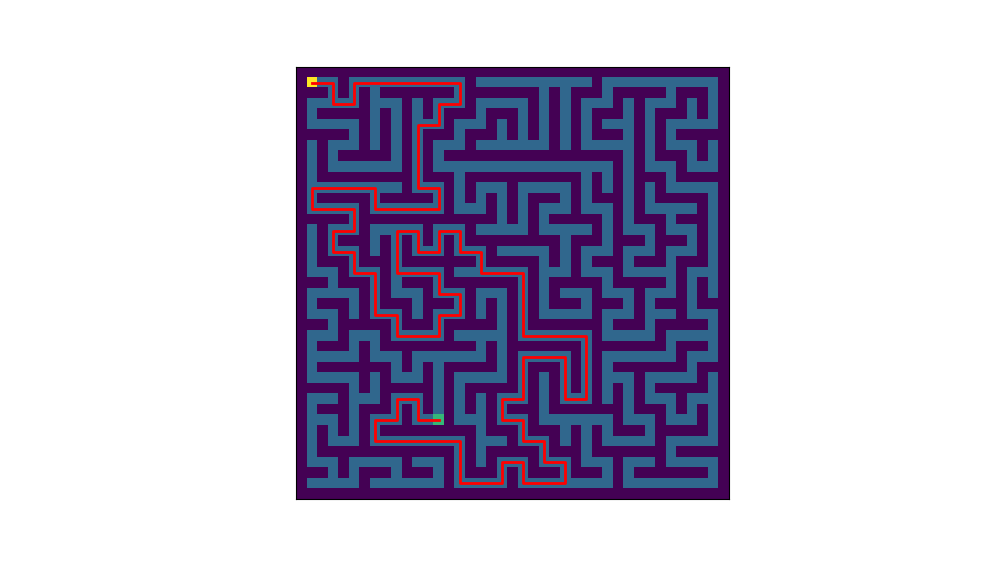
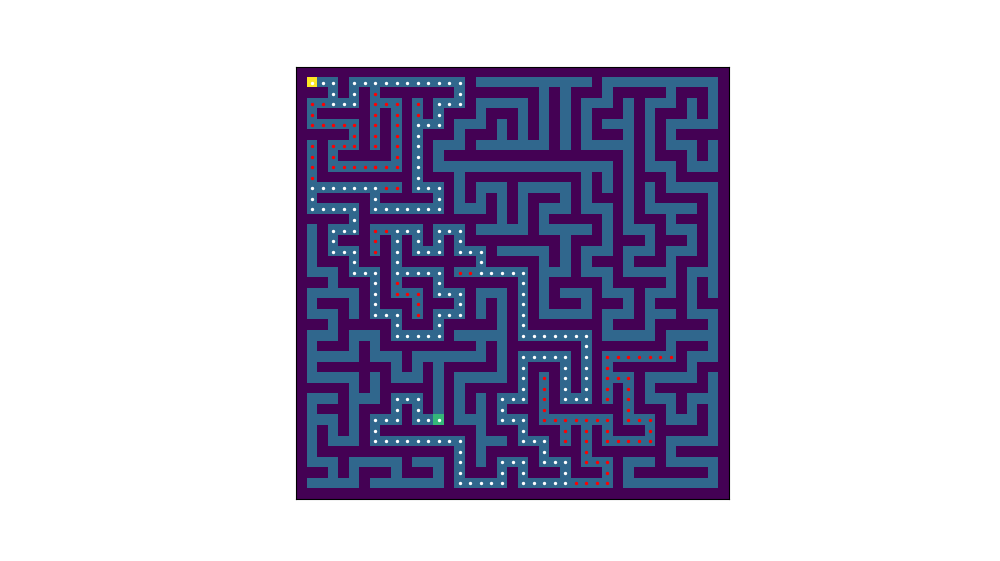
updated visualization

diff --git a/maze.py b/maze.py
@@ -50,7 +50,7 @@ def create_maze(dim):
     return maze, goal
 
 #... animate the path through the maze ...
-def draw_maze(maze, save_dir='', save_filename='', save_animation=False, path=None):
+def draw_maze(maze, save_dir='', save_filename='', save_animation=False, path=None, exploration=None):
     fig, ax = plt.subplots(figsize=(10,10))
     
     # Set the border color to white
@@ -61,40 +61,33 @@ def draw_maze(maze, save_dir='', save_filename='', save_animation=False, path=No
     ax.set_xticks([])
     ax.set_yticks([])
 
-    scatter = None 
+    scatter_path = None 
+    scatter_exp = None
     
     # Prepare for path animation
-    if path is not None:
-        # line, = ax.plot([], [], color='red', linewidth=2)
-        
-        # def init():
-        #     line.set_data([], [])
-        #     return line,
-        
-        # # update is called for each path point in the maze
-        # def update(frame):
-        #     x, y = path[frame]
-        #     line.set_data(*zip(*[(p[1], p[0]) for p in path[:frame+1]]))  # update the data
-        #     return line,
-        
-        # ani = animation.FuncAnimation(
-        #     fig, update, frames=range(len(path)), init_func=init, 
-        #     blit=True, repeat = False, interval=1
-        # )
+    if path is not None and exploration is not None:
 
         def init():
-            nonlocal scatter
-            scatter = ax.scatter([], [], marker='o', color='w', s=2)
-            return scatter,
+            nonlocal scatter_path
+            nonlocal scatter_exp
+            scatter_path = ax.scatter([], [], marker='o', color='w', s=2)
+            scatter_exp = ax.scatter([], [], marker='o', color='r', s=2)
+            return scatter_path, scatter_exp
         
         # update is called for each path point in the maze
         def update(frame):
-            nonlocal scatter
-            # y, x = path[frame]
-            x = [p[1] for p in path[:frame+1]]
-            y = [p[0] for p in path[:frame+1]]
-            scatter.set_offsets(np.column_stack([x, y]))  # Update scatter plot data
-            return scatter,
+            nonlocal scatter_path
+            nonlocal scatter_exp
+            exp_i = exploration.index(path[frame])
+            path_xy = [p for p in path[:frame+1]]
+            exp_xy = [e for e in exploration[:exp_i] if not e in path_xy]
+            path_x = [p[1] for p in path_xy]
+            path_y = [p[0] for p in path_xy]
+            exp_x = [e[1] for e in exp_xy]
+            exp_y = [e[0] for e in exp_xy]
+            scatter_exp.set_offsets(np.column_stack([exp_x, exp_y]))
+            scatter_path.set_offsets(np.column_stack([path_x, path_y]))
+            return scatter_path, scatter_exp
 
         ani = animation.FuncAnimation(
             fig, update, frames = range(len(path)), init_func = init, 

diff --git a/dfs.py b/dfs.py
@@ -49,39 +49,41 @@ def dfs(maze, goal):
     path.reverse()  # Reverse the path to get it from start to goal
     return {
         'path': path, # Return path.
+        'exploration': visited, # All the nodes that were visited.
         'num_nodes_traversed': len(set(visited)), # Return no. of nodes traversed.
         'num_dead_ends': num_dead_ends # Return no. of dead ends encountered.
     } 
 
-def handle_result(res, maze_shape):
+def handle_result(res, maze):
     ''' Displays path animation and prints 
         given run result for a maze of given shape. 
     '''
     draw_maze(
-        maze=maze, path=res['path'], save_dir=f'./solutions', 
-        save_filename=f'dfs_maze{maze_shape[0]}', save_animation=False
+        maze=maze, path=res['path'], exploration=res['exploration'],
+        save_dir=f'./solutions', save_filename=f'dfs_maze{maze.shape[0]}', 
+        save_animation=False
     )
-    print(f"\nMAZE ({maze_shape[0]} x {maze_shape[1]}):")
+    print(f"\nMAZE ({maze.shape[0]} x {maze.shape[1]}):")
     print(f"Execution time = {res['seconds']} seconds")
     print(f"No. of dead ends = {res['num_dead_ends']}")
-    print(f"No. of nodes traversed = {res['num_nodes_traversed']}/{maze_shape[0]*maze_shape[1]}")
+    print(f"No. of nodes traversed = {res['num_nodes_traversed']}/{maze.shape[0]*maze.shape[1]}")
 
 # Perform Depth First Search (DFS).
 
-# # SMALL MAZE
-# maze_s, goal_s = load_maze(path='./mazes/s_dim21.json')
-# maze = maze_s
-# res = dfs(maze, goal_s)
-# handle_result(res, maze.shape)
+# SMALL MAZE
+maze_s, goal_s = load_maze(path='./mazes/s_dim21.json')
+maze = maze_s
+res = dfs(maze, goal_s)
+handle_result(res, maze)
 
-# # MEDIUM MAZE
-# maze_m, goal_m = load_maze(path='./mazes/m_dim41.json')
-# maze = maze_m
-# res = dfs(maze, goal_m)
-# handle_result(res, maze.shape)
+# MEDIUM MAZE
+maze_m, goal_m = load_maze(path='./mazes/m_dim41.json')
+maze = maze_m
+res = dfs(maze, goal_m)
+handle_result(res, maze)
 
-# # LARGE MAZE
-# maze_l, goal_l = load_maze(path='./mazes/l_dim101.json')
-# maze = maze_l
-# res = dfs(maze, goal_l)
-# handle_result(res, maze.shape)
+# LARGE MAZE
+maze_l, goal_l = load_maze(path='./mazes/l_dim101.json')
+maze = maze_l
+res = dfs(maze, goal_l)
+handle_result(res, maze)

diff --git a/bfs.py b/bfs.py
@@ -49,22 +49,24 @@ def bfs(maze, goal):
     path.reverse()  # Reverse the path to get it from start to goal
     return {
         'path': path, # Return path.
+        'exploration': visited,
         'num_nodes_traversed': len(set(visited)), # Return no. of nodes traversed.
         'num_dead_ends': num_dead_ends # Return no. of dead ends encountered.
     } 
 
-def handle_result(res, maze_shape):
+def handle_result(res, maze):
     ''' Displays path animation and prints 
         given run result for a maze of given shape. 
     '''
     draw_maze(
-        maze=maze, path=res['path'], save_dir=f'./solutions', 
-        save_filename=f'bfs_maze{maze_shape[0]}', save_animation=False
+        maze=maze, path=res['path'], exploration=res['exploration'],
+        save_dir=f'./solutions', save_filename=f'bfs_maze{maze.shape[0]}', 
+        save_animation=False
     )
-    print(f"\nMAZE ({maze_shape[0]} x {maze_shape[1]}):")
+    print(f"\nMAZE ({maze.shape[0]} x {maze.shape[1]}):")
     print(f"Execution time = {res['seconds']} seconds")
     print(f"No. of dead ends = {res['num_dead_ends']}")
-    print(f"No. of nodes traversed = {res['num_nodes_traversed']}/{maze_shape[0]*maze_shape[1]}")
+    print(f"No. of nodes traversed = {res['num_nodes_traversed']}/{maze.shape[0]*maze.shape[1]}")
 
 # Perform Depth First Search (bfs).
 
@@ -72,16 +74,16 @@ def handle_result(res, maze_shape):
 maze_s, goal_s = load_maze(path='./mazes/s_dim21.json')
 maze = maze_s
 res = bfs(maze, goal_s)
-handle_result(res, maze.shape)
+handle_result(res, maze)
 
 # MEDIUM MAZE
 maze_m, goal_m = load_maze(path='./mazes/m_dim41.json')
 maze = maze_m
 res = bfs(maze, goal_m)
-handle_result(res, maze.shape)
+handle_result(res, maze)
 
 # LARGE MAZE
 maze_l, goal_l = load_maze(path='./mazes/l_dim101.json')
 maze = maze_l
 res = bfs(maze, goal_l)
-handle_result(res, maze.shape)
+handle_result(res, maze)

diff --git a/test.py b/test.py
@@ -1,10 +1,14 @@
 from maze import create_maze, save_maze, load_maze, draw_maze
 from dfs import dfs
+from bfs import bfs
 
 dim = 20
 m, g = create_maze(dim)
-res = dfs(m, g)
+res = bfs(m, g)
+# print('PATH =', res['path'])
+# print('EXPLORATION =', res['exploration'])
 draw_maze(
     maze=m, path=res['path'], 
+    exploration=res['exploration'],
     # save_dir='./solutions', save_filename=f'/maze_{len(m)}', save_animation=True
 )
